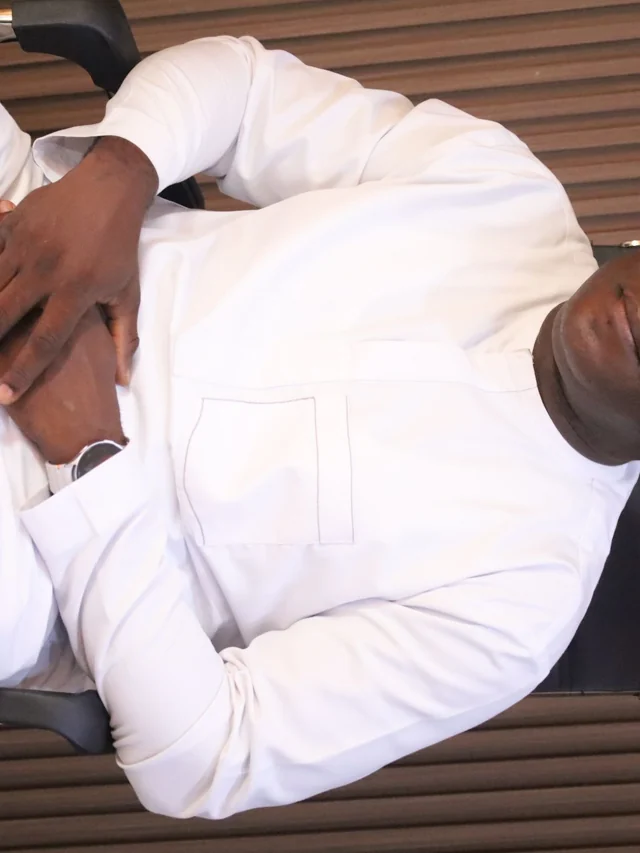
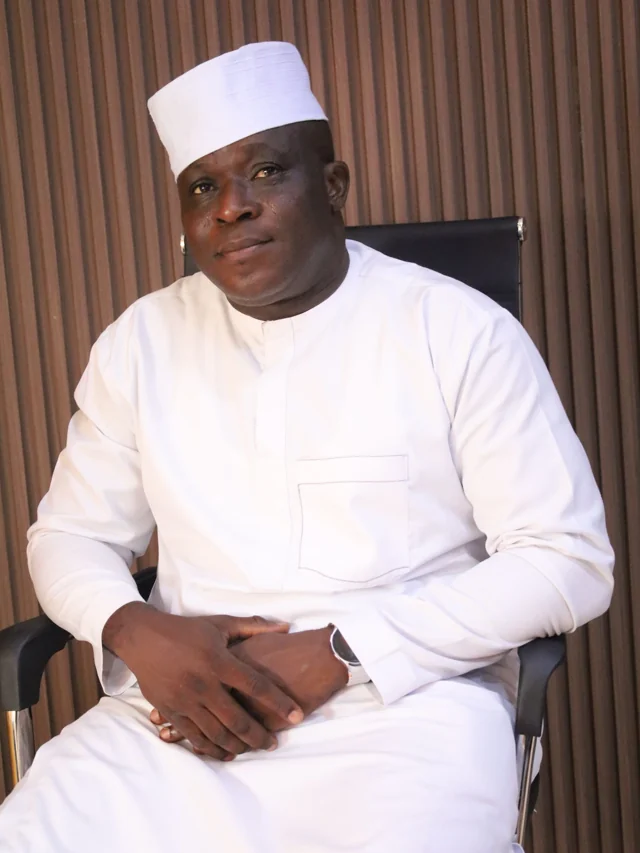
Traditional ruler portrait + AboutPage ruler block, fix rotated Ajibola photo, update homepage stats (IGR/New Payers/Jobs)

diff --git a/components/AboutPage.tsx b/components/AboutPage.tsx
@@ -1,4 +1,5 @@
 import Link from 'next/link'
+import Image from 'next/image'
 import Footer from '@/components/Footer'
 
 export type Block =
@@ -7,6 +8,7 @@ export type Block =
   | { kind: 'chips'; label: string; items: string[] }
   | { kind: 'cards'; label: string; intro?: string[]; items: { name: string; desc: string }[] }
   | { kind: 'defs'; label: string; items: { term: string; text: string }[] }
+  | { kind: 'ruler'; name: string; title: string; image: string; note?: string }
 
 function Eyebrow({ children }: { children: React.ReactNode }) {
   return (
@@ -116,7 +118,21 @@ export default function AboutPage({
                   </div>
                 )
               }
-              // defs
+              if (b.kind === 'ruler') {
+          return (
+            <div key={i} className="overflow-hidden rounded-2xl border border-black/10 bg-white sm:flex">
+              <div className="relative aspect-[3/4] w-full sm:w-56 flex-shrink-0 bg-[#F4F4F4]">
+                <Image src={b.image} alt={b.name} fill className="object-cover object-top" sizes="(max-width: 640px) 100vw, 224px" />
+              </div>
+              <div className="p-5 sm:p-6">
+                <div className="text-[15px] font-extrabold text-[#111111] leading-snug">{b.name}</div>
+                <div className="mt-1 text-[12px] font-semibold uppercase tracking-wide text-[#B26B00]">{b.title}</div>
+                {b.note ? <p className="mt-3 text-[13.5px] leading-[1.8] text-black/70">{b.note}</p> : null}
+              </div>
+            </div>
+          )
+        }
+        // defs
               return (
                 <div key={i}>
                   <Eyebrow>{b.label}</Eyebrow>

diff --git a/app/about/traditional-rulers/page.tsx b/app/about/traditional-rulers/page.tsx
@@ -14,6 +14,13 @@ const FACTS = [
 
 const BLOCKS: Block[] = [
   {
+    kind: 'ruler',
+    name: 'HRM Oba Amb. Abidemi Toheeb Yissa Oyedele',
+    title: 'Onimedu of Orimedu Kingdom, Oyetu I, Ibeju-Lekki, Lagos',
+    image: '/leadership/oba-onimedu-orimedu.webp',
+    note: 'A reigning traditional ruler within the Council of Obas and Chiefs of Ibeju-Lekki, custodian of the customs and heritage of the Orimedu Kingdom.',
+  },
+  {
     kind: 'section',
     paras: [
       `Firmly rooted in a patriarchal and male-dominated structure, leadership is vested in the Council of Obas and Chiefs, which is headed by the Onibeju, who serves as its permanent Chairman.`,

diff --git a/components/Hero.tsx b/components/Hero.tsx
@@ -30,9 +30,9 @@ const PILLARS = [
 
 // ── Stats ─────────────────────────────────────────────────────────────────────
 const STATS = [
-  { value: '$9B+',   label: 'Private Investment' },
-  { value: '646km²', label: 'Land Area' },
-  { value: '250k+',  label: 'Residents' },
+  { value: '₦150M+', label: 'IGR Generated' },
+  { value: '70,000+', label: 'New Payers Captured' },
+  { value: '480', label: 'Jobs Created' },
   { value: '7',      label: 'SHIEELD Pillars' },
 ];
 
